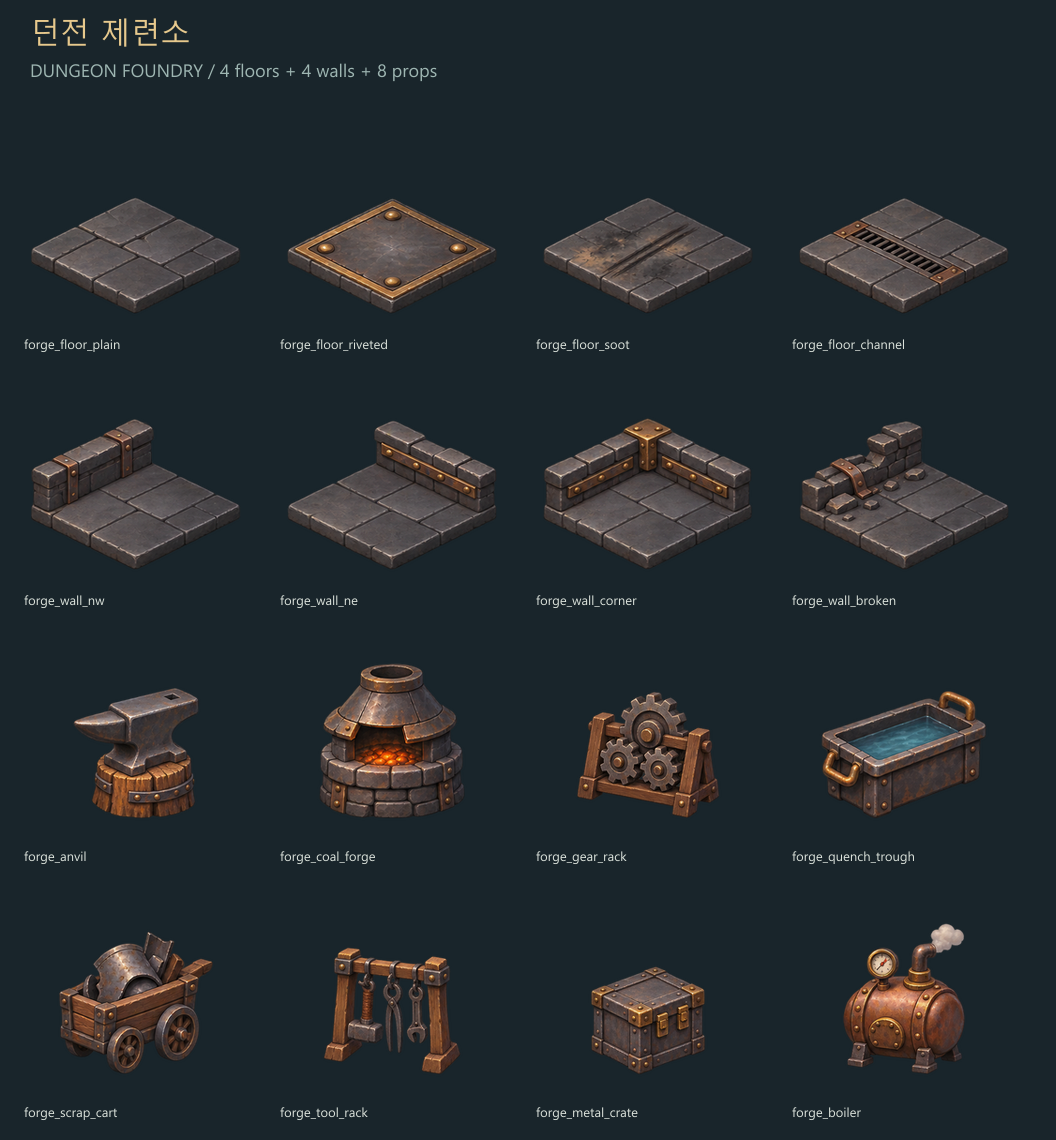
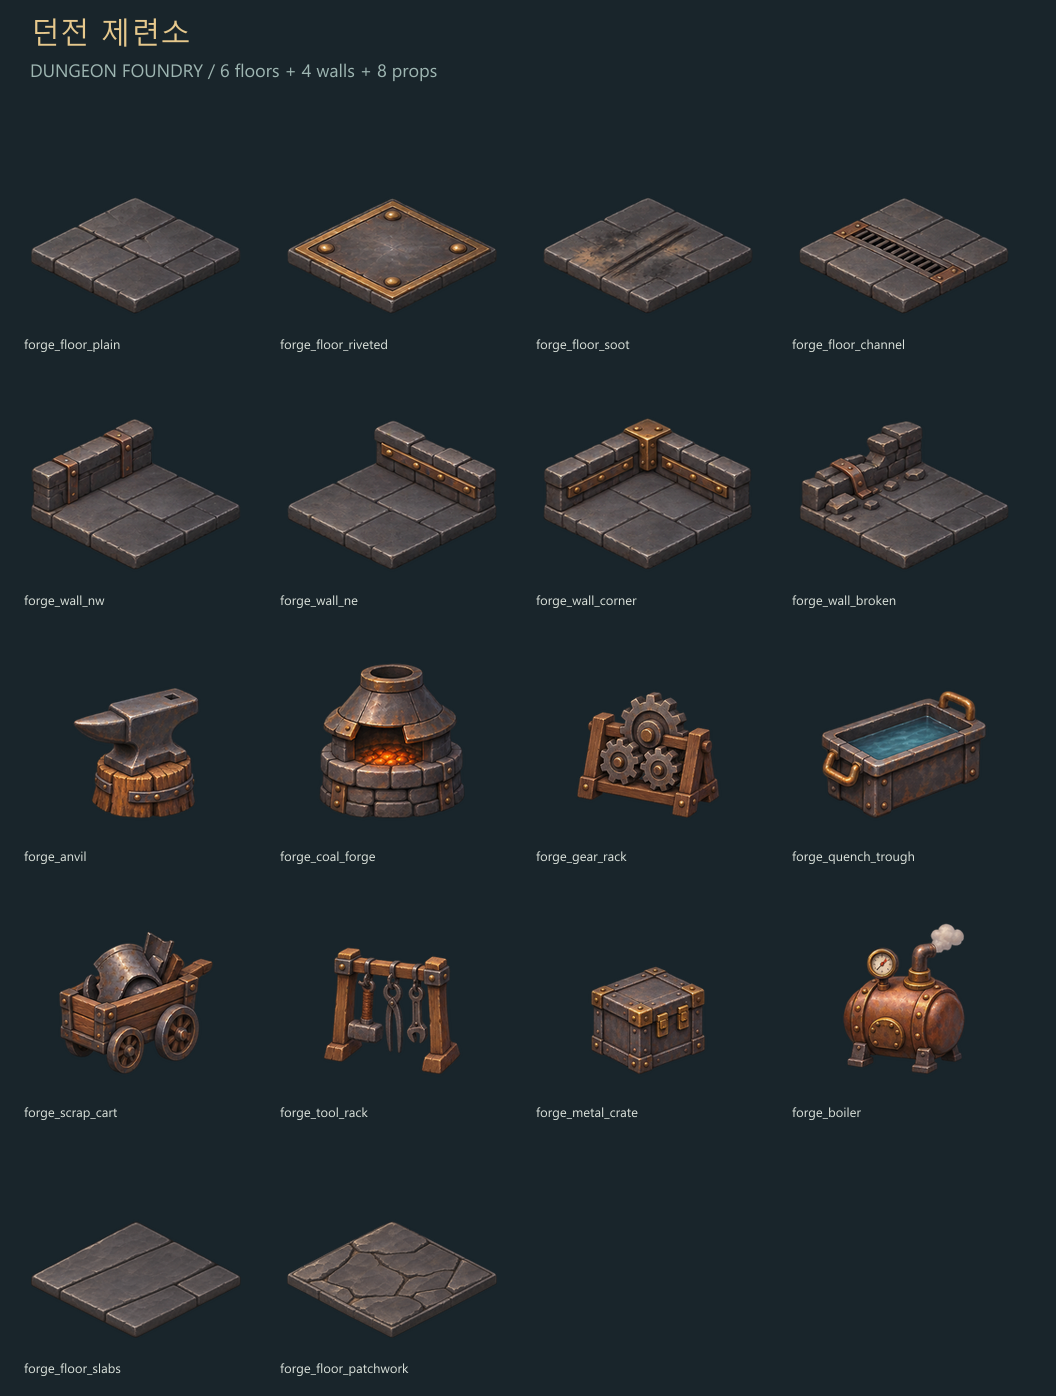
art: 첫 번째 방의 통로 바닥 무늬 다양화

diff --git a/game/themes.py b/game/themes.py
@@ -17,6 +17,12 @@ def _catalog():
 def _checked_scene(identifier, walls):
     scene = _catalog().get(identifier)
     if scene:
+        floor_cells = set()
+        for entry in scene.get("floor_overrides", ()):
+            pos = tuple(entry["cell"])
+            if pos in walls or pos in floor_cells or entry["sprite"] not in scene["floors"]:
+                raise ValueError(f"{identifier}: 바닥 장식은 중복 없는 통로 칸과 등록된 바닥 그림을 사용해야 합니다.")
+            floor_cells.add(pos)
         for decoration in scene["decorations"]:
             if tuple(decoration["cell"]) not in walls:
                 raise ValueError(f"{identifier}: 장식은 막힌 벽칸에만 배치해야 합니다.")
@@ -35,6 +41,9 @@ def scene_for(level):
 
 def themed_floor(scene, pos, near_trap=False):
     """기본 바닥을 넓게 남기고, 고정된 일부 칸에만 장식 문양을 배치한다."""
+    for entry in scene.get("floor_overrides", ()):
+        if tuple(entry["cell"]) == pos:
+            return entry["sprite"], tuple(scene["floor_tint"])
     floors = scene["floors"]
     choice = _pattern(pos) % 100
     index = 0 if choice < 68 or near_trap else 1 if choice < 82 else 2 if choice < 94 else 3

diff --git a/assets/map_pack_v1/README.md b/assets/map_pack_v1/README.md
@@ -1,6 +1,10 @@
-# 던전 맵 확장 에셋 — 4개 테마, 64종
+# 던전 맵 확장 에셋 — 4개 테마, 66종
 
 2026-11-08 제작. 기존 `art_v1`의 수리공·퍼즐 장치와 조합하기 위한 맵 장식 팩이다. 테마마다 바닥 4종, 벽 4종, 독립 소품 8종을 제공한다. 프로토타입 0.7의 여섯 플레이 맵에 테마와 소품을 적용했다. [실제 게임 화면 비교](../../docs/screenshots/themes/overview.png)에서 확인할 수 있다.
+
+2026-11-09 제련소에 긴 판석과 불규칙한 돌 바닥 2종을 추가했다. 제련소는 바닥 6종·벽 4종·소품 8종이며, 다른 테마 구성은 그대로다. 1번 방 통로에 `data/scenery.json`의 `floor_overrides`로 직접 배치해 구간별 석재 배열을 달리하고, 황동 철판은 레버 밑에만 남겼다. [현재 1번 방](../../docs/screenshots/stage-01-varied-corridor.png)에서 확인할 수 있다. 이동·충돌·함정 규칙은 바꾸지 않았다.
+
+추가 에셋은 내장 `image_gen`으로 제작했다. 원본 `forge/source/floor-slabs.png`, `forge/source/floor-patchwork.png`와 [전체 프롬프트](forge/source/floor-variation-prompts.json)를 보존한다. `source/spec.json`의 `extra_floors`를 읽어 기존 제작 명령으로 함께 빌드한다. 새 바닥은 현재 1번 방에서만 사용한다.
 
 ![네 가지 테마 조립 예시](theme_comparison.png)
 
@@ -23,9 +27,9 @@
 
 ```text
 crypt/ 또는 sewer/, forge/, archive/
-├── tiles/              # 바닥 4개 + 벽 4개, 개별 PNG
+├── tiles/              # 바닥 4개(제련소 6개) + 벽 4개, 개별 PNG
 ├── props/              # 독립 소품 8개, 개별 PNG
-├── atlas.png           # 4×4 아틀라스
+├── atlas.png           # 4×4 아틀라스, 제련소는 4×5
 ├── manifest.json       # 파일, 기준점, clip_draw 좌표, 종류, SHA-256
 ├── validation.json     # 투명도·잘림·여백 검사
 ├── previews/
@@ -37,7 +41,7 @@ crypt/ 또는 sewer/, forge/, archive/
 ```
 
 - 개별 PNG: **256×256 RGBA**, 투명 배경.
-- 아틀라스: **1024×1024**, **256×256 셀 4×4**, 테마당 1장.
+- 아틀라스: **1024×1024**, **256×256 셀 4×4**, 테마당 1장. 제련소는 바닥 추가로 **1024×1280**, **4×5**이며 마지막 두 셀은 비어 있다.
 - 타일 윗면 기준 크기: **224×112**, 기존 `art_v1`과 동일한 2:1 간격.
 - 바닥·벽 PNG 기준점: **(128, 160)**, 바닥 윗면 중심.
 - 독립 소품 PNG 기준점: **(128, 220)**, 바닥 접점.
